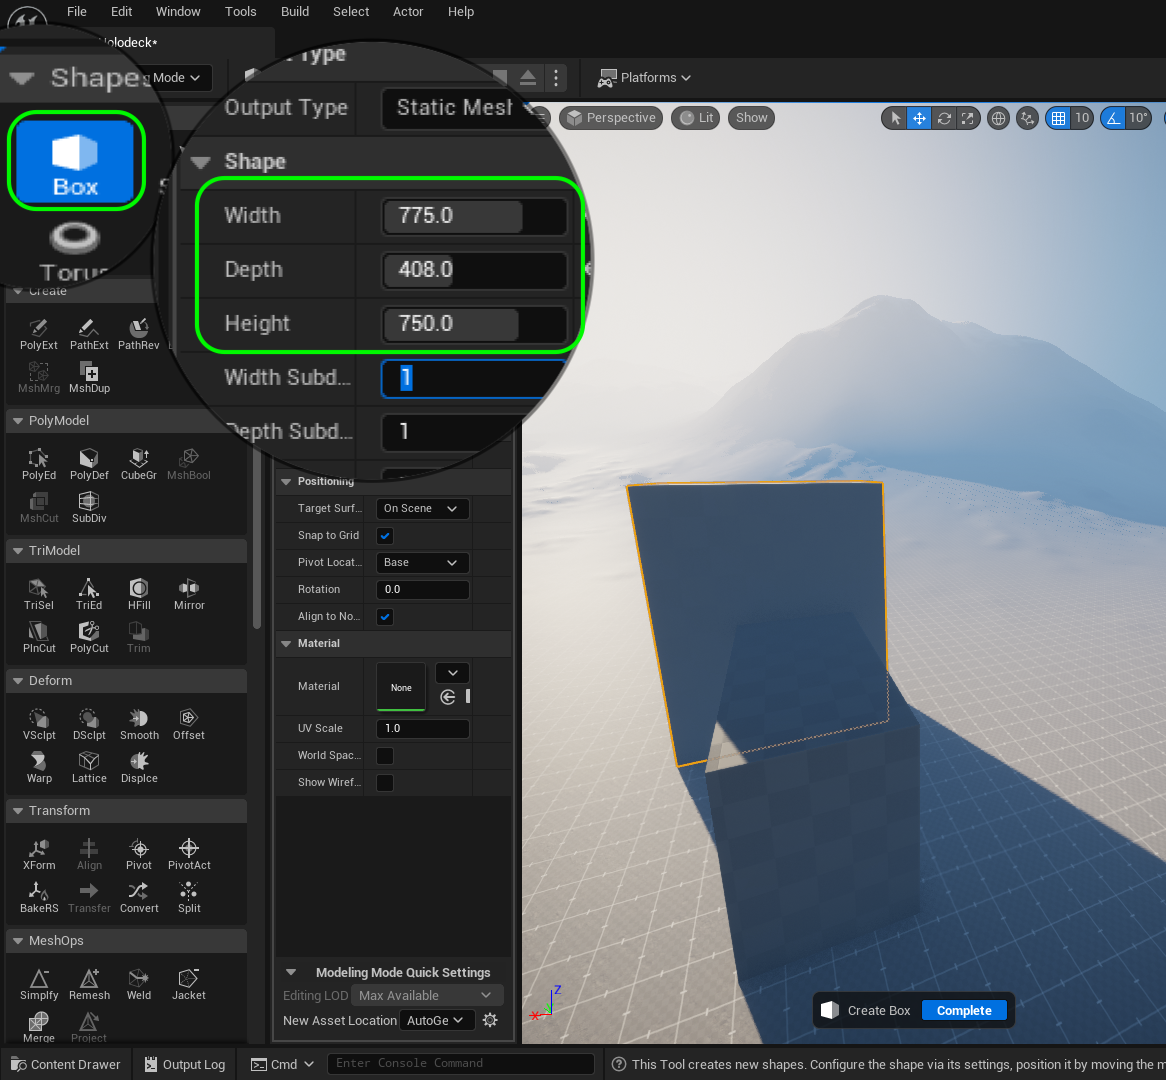
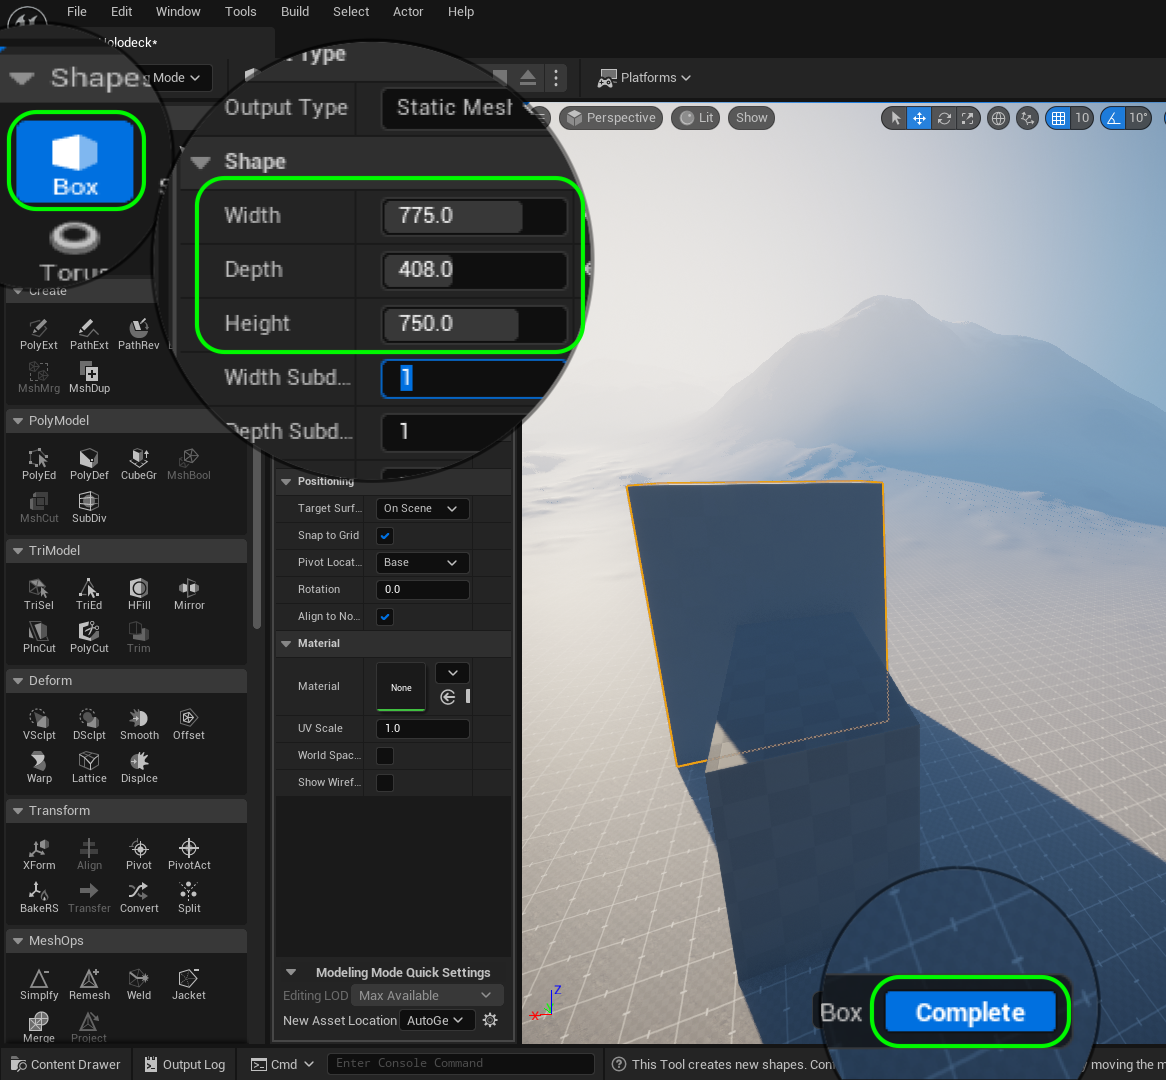
updating ld to ue5

Changed region(s): [[0.6792, 0.8861, 0.9571, 1.0], [0.7719, 0.7944, 0.8954, 0.825], [0.8954, 0.825, 0.9262, 0.8556]]

diff --git a/double-jump/README.md b/double-jump/README.md
@@ -31,17 +31,17 @@ Now go back to ??? mode and lift the box and press the <kbd>End</kbd> key and pl
 
 ##### `Step 3.`\|`UE5LD`|:small_blue_diamond: :small_blue_diamond: :small_blue_diamond:
 
-Lets create a second box that we will use to cut a hole in the existing one. Go back to the **Modeling** mode and create another **Box** that is 
+Lets create a second box that we will use to cut a hole in the existing one. Go back to the **Modeling** mode and create another **Box** that is a **Width** of `775`, **Depth** of `408` and **Height** of `750`. Press the <kbd>Complete</kbd> and put it on the ground next to the other box.
 
-![raise box and select adjacent surfaces](images/secondBox.png)
+![create second smaller box](images/secondBox.png)
 
 ![](../images/line2.png)
 
 ##### `Step 4.`\|`UE5LD`|:small_blue_diamond: :small_blue_diamond: :small_blue_diamond: :small_blue_diamond:
 
-Add base material to jump platform.
+Place smaller box through bigger box.  Use the top, side and front views to center it through the shape.
 
-![add base material to jump platform](images/AddBaseMaterialToJumpPlatform.jpg)
+![cneter small box in larger one](images/AddBaseMaterialToJumpPlatform.jpg)
 
 ![](../images/line2.png)
 
